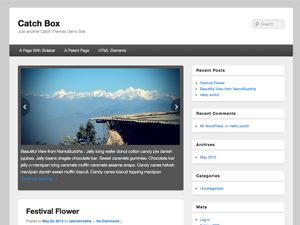
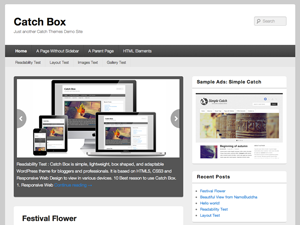
New version of Catch Box - 1.0.6

diff --git a/style.css b/style.css
@@ -4,7 +4,7 @@ Theme URI: http://catchthemes.com/wp-themes/catchbox
 Author: Catch Themes Team
 Author URI: http://catchthemes.com
 Description: Catch Box is simple, lightweight, box shaped, and adaptable WordPress theme for bloggers and professionals. It is based on HTML5, CSS3 and Responsive Web Design to view in various devices. 10 Best reason to use Catch Box. 1. Responsive Web Design, 2. Custom Menus (Primary, Secondary and Footer menus), 3. Theme Options for light or dark color scheme, custom link colors, three layout choices, two content choices between excerpt and content option in homepage, feed redirection, custom css styles, 4. Featured Sliders where you can define number of slides and post IDs, 6. Social Links (Facebook, Twitter, RSS, Linkedin, Pinterest, etc), 7. Webmaster Tools (Google, Yahoo and Bing site verification ID, Header and footer codes, 6. Custom Backgrounds, 8. Custom Header, 9. Catchbox Adspace widget to add any type of Advertisements, 10) Support popular plugins
-Version: 1.0.5
+Version: 1.0.6
 License: GNU General Public License
 License URI: license.txt
 Tags: dark, light, white, black, gray, one-column, two-columns, left-sidebar, right-sidebar, fixed-width, flexible-width, custom-background, custom-colors, custom-header, custom-menu, editor-style, featured-image-header, featured-images, full-width-template, microformats, post-formats, rtl-language-support, sticky-post, theme-options
@@ -1926,7 +1926,7 @@ section.recent-posts .other-recent-posts li:after {
 	padding: 0.5em 1em 1em;
 }
 .widget-title,
-h3.widget-title{
+h3.widget-title {
     border-bottom: 2px solid #ccc;
     color: #222;
 	font-size: 16px;
@@ -1934,6 +1934,14 @@ h3.widget-title{
     letter-spacing: 0.1em;
     padding: 0 1em 0.5em;
 	margin: 0 -0.75em 1em;
+}
+h3.widget-title a {
+    color: #222;
+	font-size: 16px;
+    font-weight: bold;
+}
+h3.widget-title a:hover {
+	text-decoration: none;
 }
 .widget ul {
     font-size: 15px;
@@ -2615,8 +2623,7 @@ p.comment-form-comment {
 		float: none;
 		margin-right: 0;
 		width: auto;
-	}
-
+	}	
 }
 @media (max-width: 650px) {
 	/* @media (max-width: 650px) Reduce font-sizes for better readability on smaller devices */
@@ -2704,15 +2711,22 @@ p.comment-form-comment {
 		top: 2.2em;
 	}
 	/* Menu */
-	#access div, #access-secondary div, #access-footer div,
-	#branding ul.menu, #colophon #access-footer ul.menu {
+	#access div, 
+	#access-secondary div,
+	#access-footer div,
+	#branding ul.menu,
+	#colophon #access-footer ul.menu, 
+	#access .default-menu ul {
 		margin: 0;
 	}
-	#branding ul.menu .sub-menu li, #colophon #access-footer ul.menu .sub-menu li {
+	#branding ul.menu .sub-menu li, 
+	#colophon #access-footer ul.menu .sub-menu li,
+	#access .default-menu ul .sub-menu li {
 		display: none;
 	}
 	#branding ul.menu li,
-	#access-footer ul.menu li {
+	#access-footer ul.menu li,
+	#access .default-menu ul li {
 		border: none;
 	    float: none;
 	    text-align: center;
@@ -2720,6 +2734,23 @@ p.comment-form-comment {
 	#colophon #access-footer ul.menu a {
 		display: block;
 		float: none;
+	}	
+	
+	/* Pagination */
+	#nav-below .wp-pagenavi a, 
+	#nav-below .wp-pagenavi span, 
+	#nav-below #wp_page_numbers ul li a,
+	.page-link span,
+	.page-link a span {
+		height: 25px;
+		font-size:12px;
+		line-height: 24px;
+		padding:0 10px;
+	}	
+	#nav-below .wp-pagenavi a, 
+	#nav-below .wp-pagenavi span,
+	.page-link span {
+		margin: 0 0 0 5px;
 	}	
 	
 	/* Use the available space in the smaller comment form */
